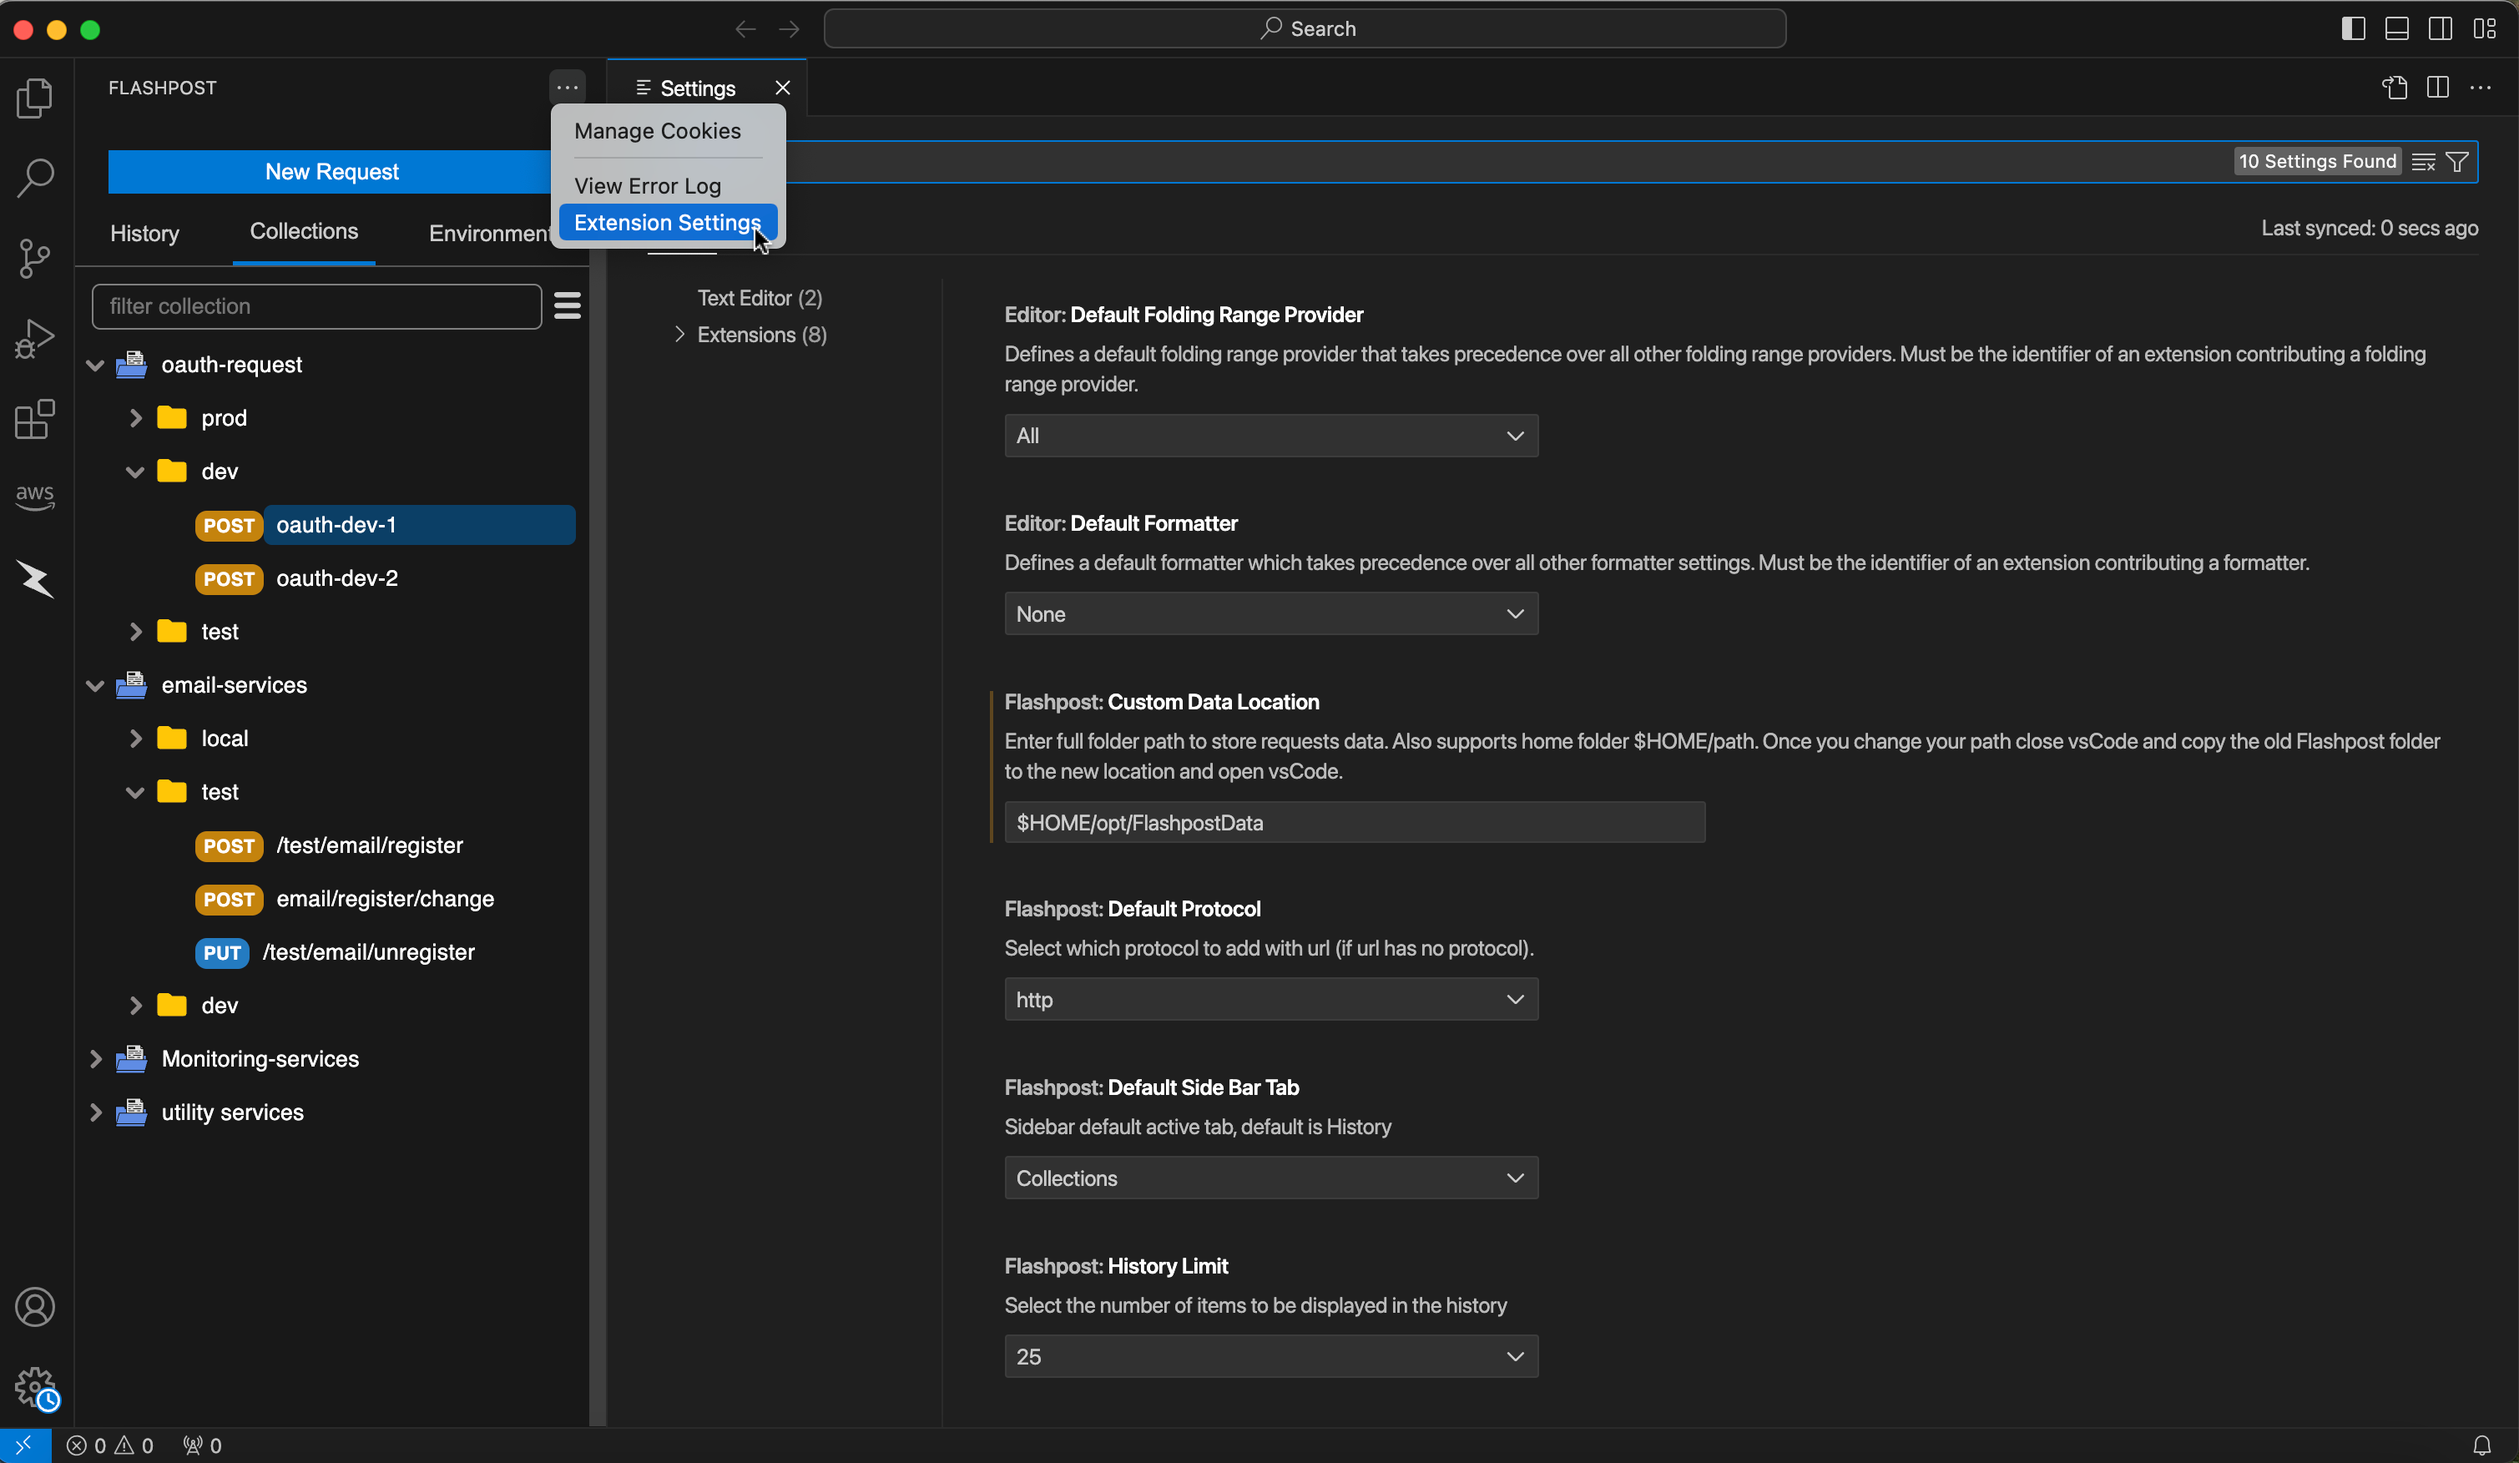
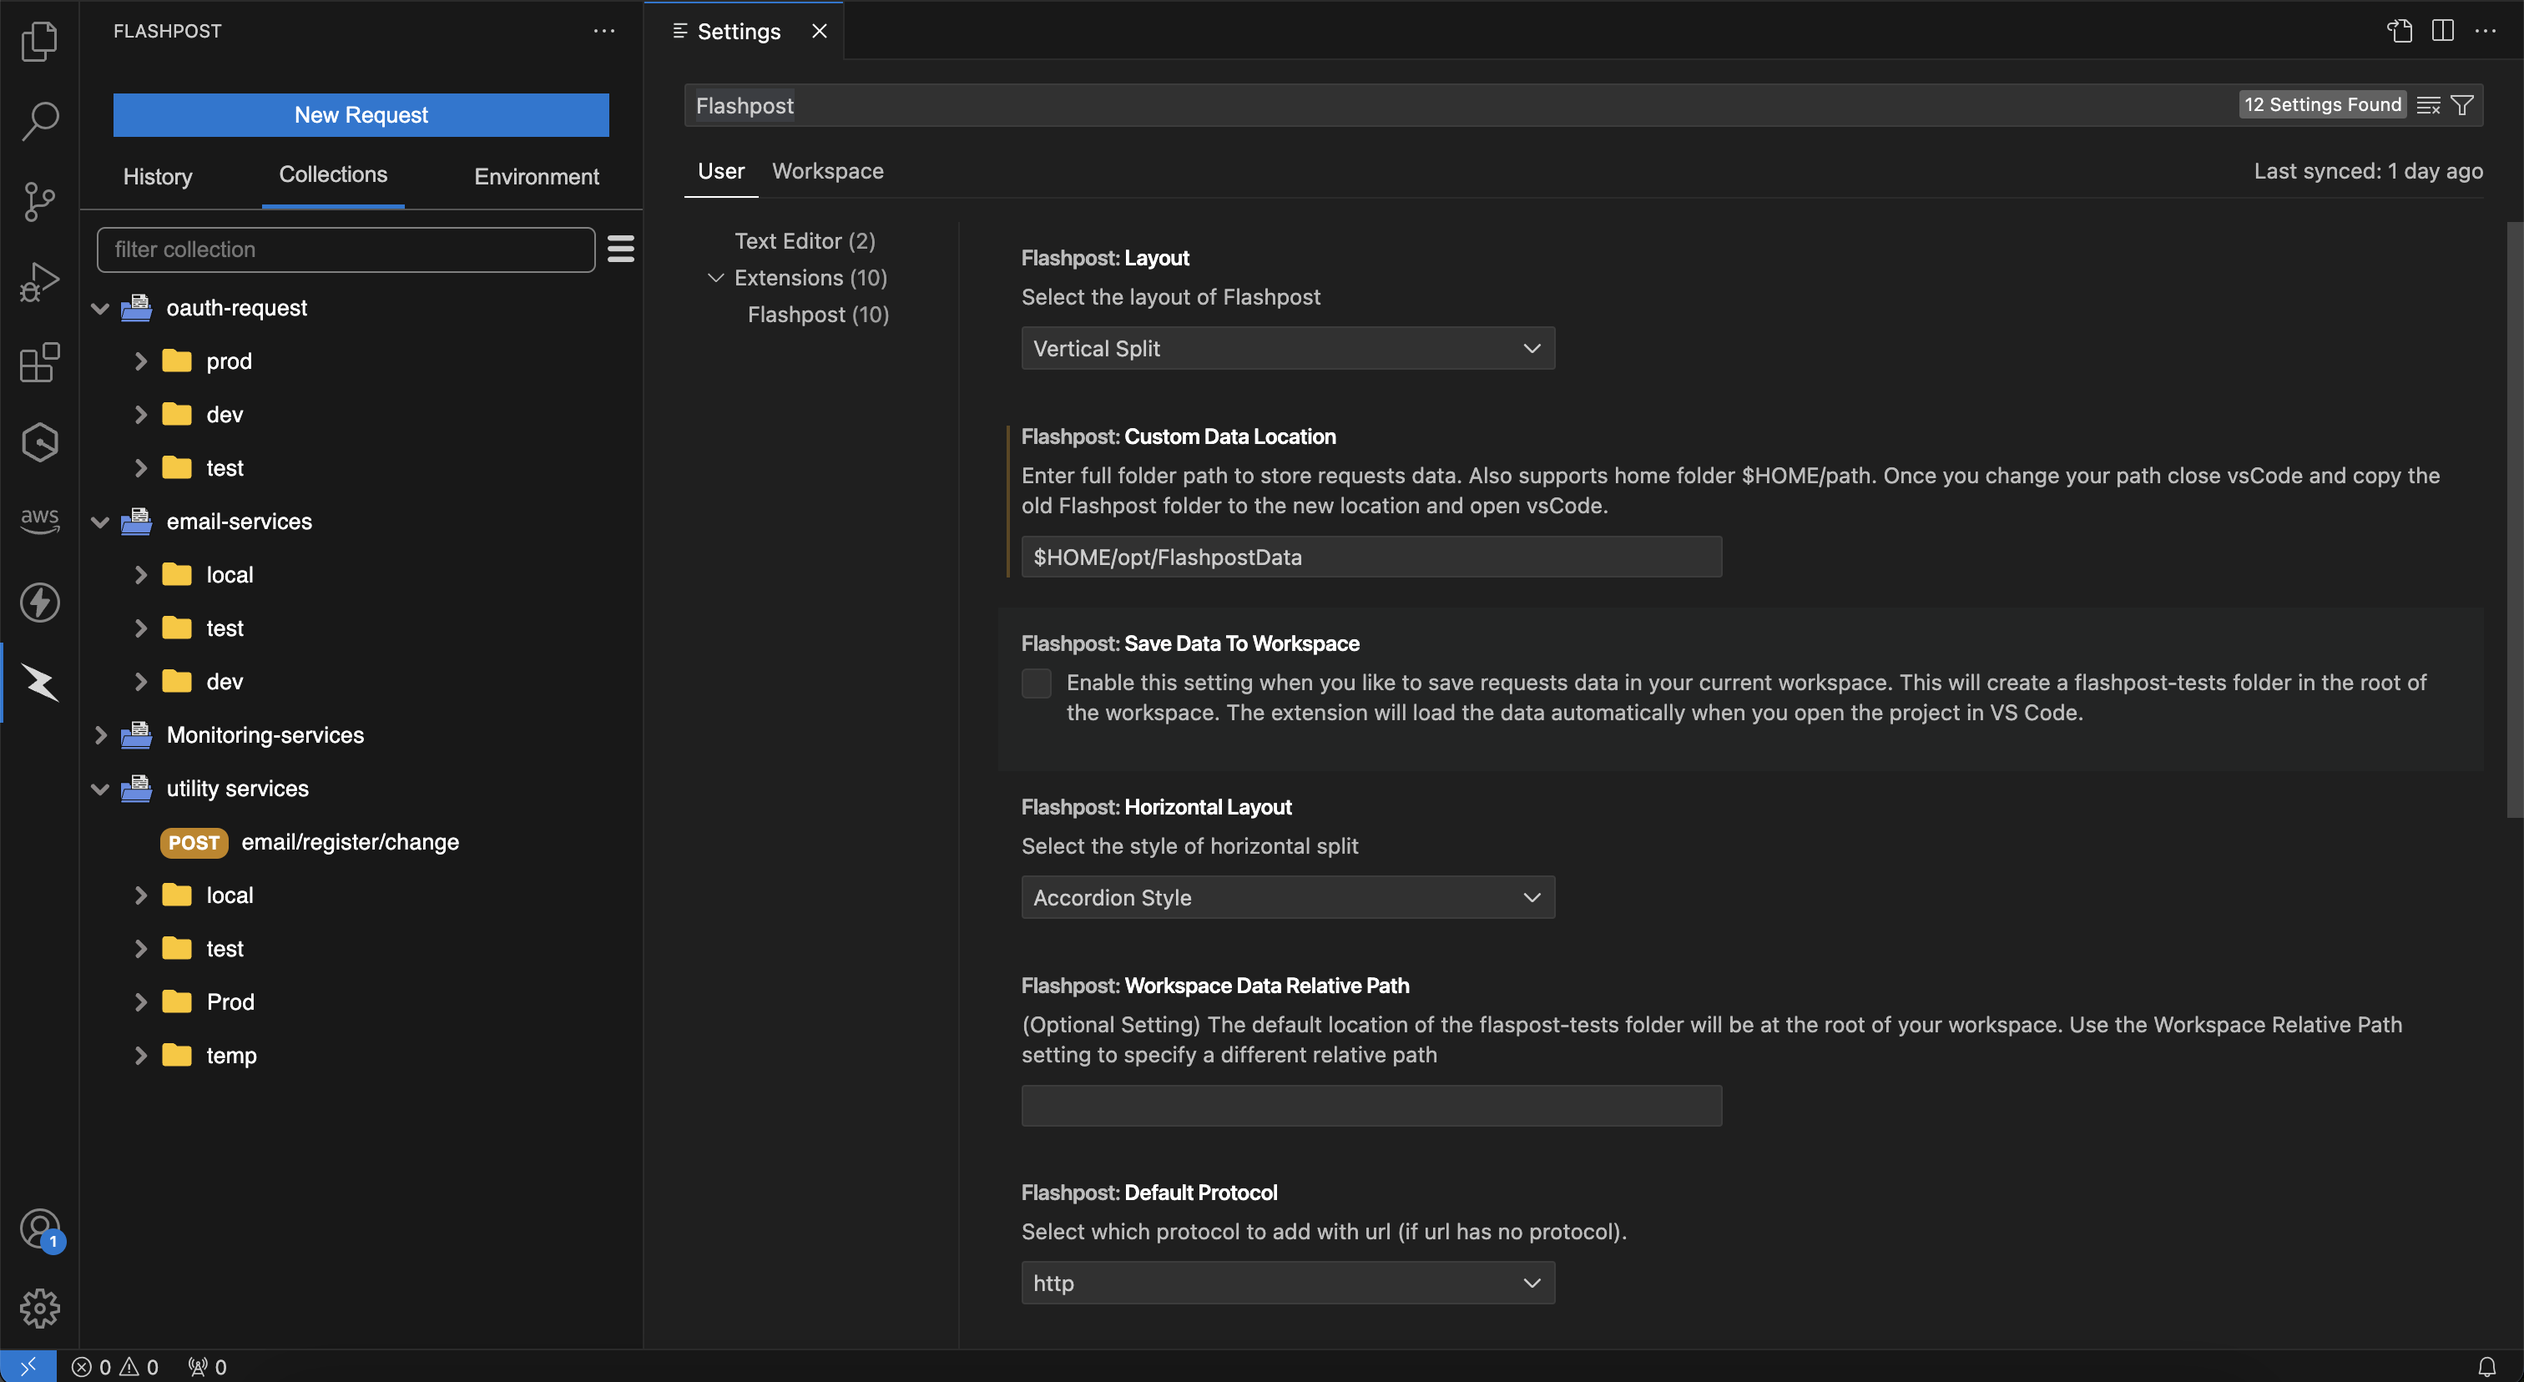
Modified Readme

diff --git a/README.md b/README.md
@@ -12,6 +12,7 @@ Flashpost VS Code extension enables you to develop and test your REST APIs direc
 * Easily setup your Environment variables from the response.
 * <b>Scriptless Testing:</b> Test API response easily with GUI based interface and without any scripts.
 * <b>Local Storage:</b> All collections and request data are stored locally on your device. You can also customize the location from Flashpost extension settings. The default path is $HOME/Documents/ folder.
+* <b>Save to workspace:</b> If you like to save requests data in your current workspace, you have options to do from Flashpost extension settings.
 
 ## 💡 How to use ?
 
@@ -82,6 +83,7 @@ Open request view and click the [</>] icon to see the Code Tab
 ## Flashpost Extension Settings
 * Click on the icon on top right corner of side bar to open Flashpost extension settings.
 * Customize your data storage path by changing "Custom Data Location" setting.
+* If you like to save requests data in your current workspace use "Save Data to Workspace" setting. You can also select a relative path by using "Workspace Data Relative Path" setting.
 <br/><br/>
 <div align="center">
   <img src="https://github.com/subasraj/flashpost-support/blob/main/images/flashpost-extension-settings.png?raw=true"/>
